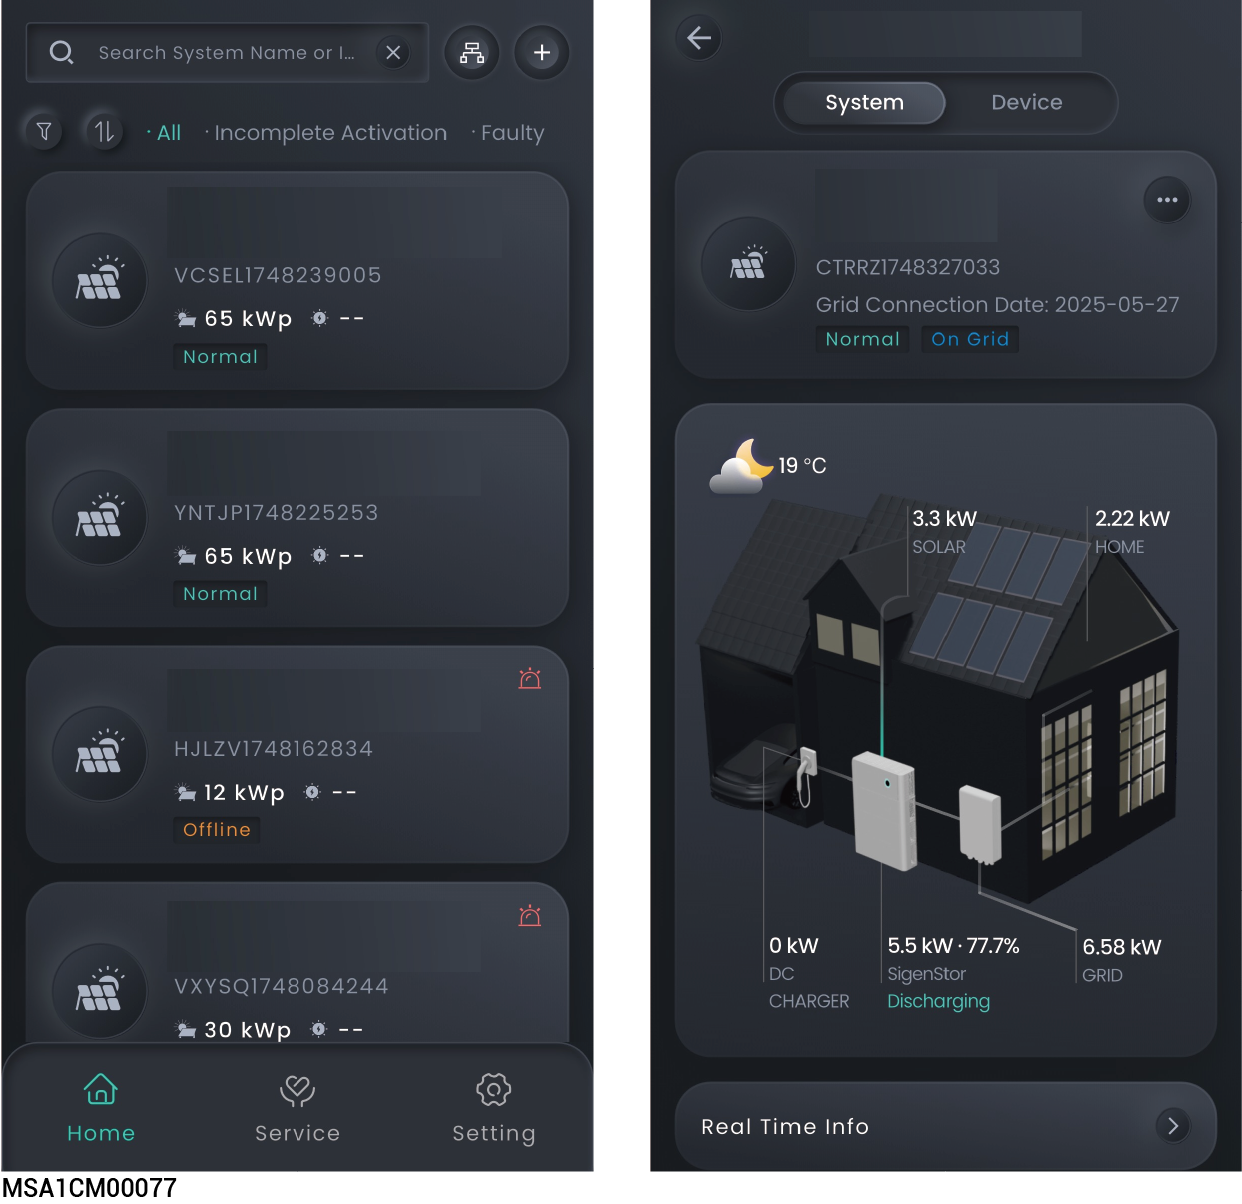
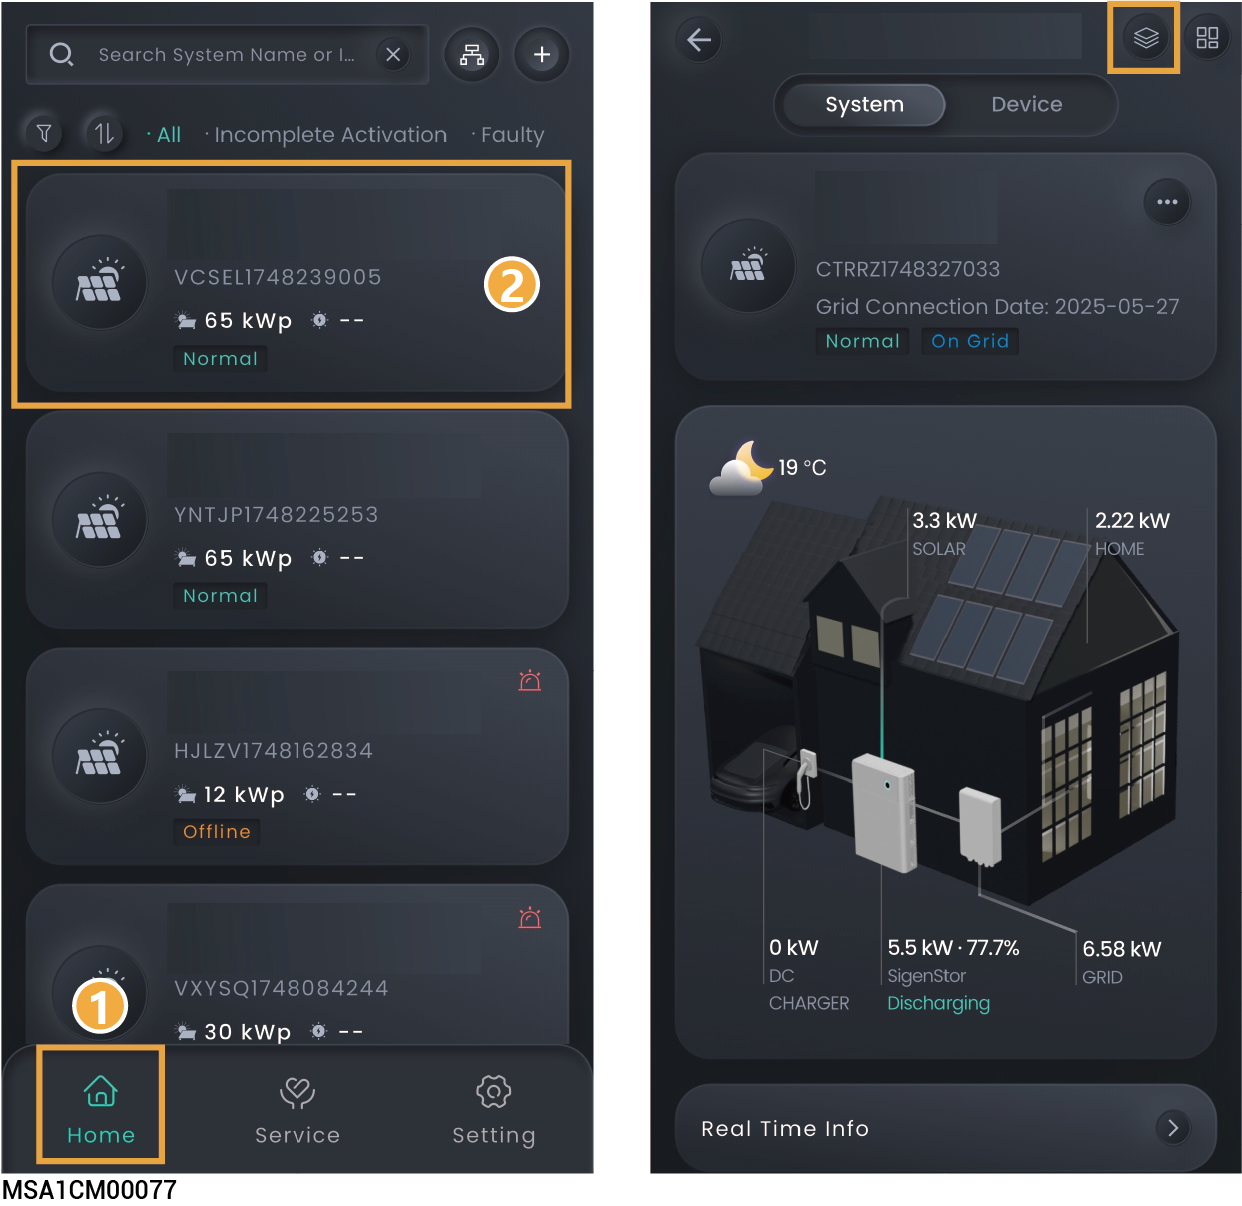
GITBOOK-3: No subject

diff --git a/device-parameter-setup/sigen-ev-dc-charging-module.md b/device-parameter-setup/sigen-ev-dc-charging-module.md
@@ -2,7 +2,7 @@
 
 <figure><img src="../.gitbook/assets/MSA1CM00078-EVDC (1).png" alt=""><figcaption></figcaption></figure>
 
-<table><thead><tr><th width="76" align="center">No.</th><th width="153.2222900390625">Parameter name</th><th>Description</th></tr></thead><tbody><tr><td align="center">1</td><td>Schedule</td><td>If the connected car supports the scheduled Charging function, you can set the scheduled charging and discharging periods.</td></tr><tr><td align="center">2</td><td>Charging Mode</td><td><p><strong>Fast Charging</strong></p><ul><li>Battery Boost: When set to <img src="../.gitbook/assets/image (38).png" alt="">, it can charge using the home battery.</li></ul><ul><li>Cut-OFF SOC: When Battery Boost is enabled, the battery will stop charging the Sigen EV DC charging module if the actual SOC is less than the set parameter.</li></ul><p><strong>PV Surplus Charging</strong></p><ul><li>Battery Boost: When set to <img src="../.gitbook/assets/image (37).png" alt="">, it can charge using the home battery.</li></ul><ul><li>Cut-OFF SOC: When Battery Boost is enabled, the battery will stop charging the Sigen EV DC charging module if the actual SOC is less than the set parameter.</li></ul><ul><li>Surplus PV priority: Select the device and drag it up or down to modify the device's priority.</li></ul></td></tr><tr><td align="center">3</td><td>Charging Setting</td><td>Setting the maximum charging power permitted for Sigen EV DC Charging Module.</td></tr><tr><td align="center">4</td><td>OCPP Settings</td><td>When it is set to <img src="../.gitbook/assets/1 (10).png" alt="" data-size="line">, the Sigen EV DC Charger can connect to the OCPP server, and users can select the OCPP platform from the URL drop-down menu.</td></tr><tr><td align="center">5</td><td>Authorization</td><td>Set the charging authentication. When it is set to <img src="../.gitbook/assets/image.png" alt="">, unauthenticated charging is allowed.</td></tr><tr><td align="center">6</td><td>Card Management</td><td>Bind a Sigen RFID card.</td></tr></tbody></table>
+<table><thead><tr><th width="76" align="center">No.</th><th width="153.2222900390625">Parameter name</th><th>Description</th></tr></thead><tbody><tr><td align="center">1</td><td>Schedule</td><td>If the connected car supports the scheduled Charging function, you can set the scheduled charging and discharging periods.</td></tr><tr><td align="center">2</td><td>Charging Mode</td><td><p><strong>Fast Charging</strong></p><ul><li>Battery Boost: When set to <img src="../.gitbook/assets/image (38).png" alt="">, it can charge using the home battery.</li></ul><ul><li>Cut-OFF SOC: When Battery Boost is enabled, the battery will stop charging the Sigen EV DC charging module if the actual SOC is less than the set parameter.</li></ul><p><strong>PV Surplus Charging</strong></p><ul><li>Battery Boost: When set to <img src="../.gitbook/assets/image (37).png" alt="">, it can charge using the home battery.</li></ul><ul><li>Cut-OFF SOC: When Battery Boost is enabled, the battery will stop charging the Sigen EV DC charging module if the actual SOC is less than the set parameter.</li></ul><ul><li>Surplus PV priority: Select the device and drag it up or down to modify the device's priority.</li></ul></td></tr><tr><td align="center">3</td><td>Charging Setting</td><td>Setting the maximum charging power permitted for Sigen EV DC Charging Module.</td></tr><tr><td align="center">4</td><td>OCPP Settings</td><td>When it is set to <img src="../.gitbook/assets/1 (10).png" alt="" data-size="line">, the Sigen EV DC Charger can connect to the OCPP server, and users can select the OCPP platform from the URL drop-down menu.</td></tr><tr><td align="center">5</td><td>Authorization</td><td>Set the charging authentication. When it is set to <img src="../.gitbook/assets/image (3).png" alt="">, unauthenticated charging is allowed.</td></tr><tr><td align="center">6</td><td>Card Management</td><td>Bind a Sigen RFID card.</td></tr></tbody></table>
 
 {% include "../.gitbook/includes/tips.md" %}
 

diff --git a/app-setting.md b/app-setting.md
@@ -16,7 +16,7 @@ Click "Setting" → "About" → "Version Update" and execute the upgrade process
 
 Click "Setting" → "App Setting" to go to the settings screen.
 
-<table><thead><tr><th width="60" align="center">No.</th><th width="155">Parameter name</th><th>Description</th></tr></thead><tbody><tr><td align="center">1</td><td>Dark Mode</td><td>Specifies the display style.</td></tr><tr><td align="center">2</td><td>Language</td><td>Specifies the display language.</td></tr><tr><td align="center">3</td><td>Temperature Unit</td><td><ul><li>Sets the unit of temperature.</li></ul><ul><li>The unit of temperature commonly used in the local area is set by default. You can change this setting when needed.</li></ul></td></tr><tr><td align="center">4</td><td>Notification</td><td><p>Sets the App push notification permission.</p><p>This permission is set while the App is installed. You can make settings when needed.</p></td></tr><tr><td align="center">5</td><td>Lab</td><td><p>Sets the access permission of Sigen AI.</p><p>You can ask Sigen AI about the product knowledge when the parameter is set to <img src=".gitbook/assets/image (3).png" alt="">.</p></td></tr><tr><td align="center">6</td><td>Diagnostic tool</td><td>If an exception occurs when you use the App, you can use this tool to generate operation logs and report to our customer support for analysis and solutions.</td></tr></tbody></table>
+<table><thead><tr><th width="60" align="center">No.</th><th width="155">Parameter name</th><th>Description</th></tr></thead><tbody><tr><td align="center">1</td><td>Dark Mode</td><td>Specifies the display style.</td></tr><tr><td align="center">2</td><td>Language</td><td>Specifies the display language.</td></tr><tr><td align="center">3</td><td>Temperature Unit</td><td><ul><li>Sets the unit of temperature.</li></ul><ul><li>The unit of temperature commonly used in the local area is set by default. You can change this setting when needed.</li></ul></td></tr><tr><td align="center">4</td><td>Notification</td><td><p>Sets the App push notification permission.</p><p>This permission is set while the App is installed. You can make settings when needed.</p></td></tr><tr><td align="center">5</td><td>Lab</td><td><p>Sets the access permission of Sigen AI.</p><p>You can ask Sigen AI about the product knowledge when the parameter is set to <img src=".gitbook/assets/image (3) (1).png" alt="">.</p></td></tr><tr><td align="center">6</td><td>Diagnostic tool</td><td>If an exception occurs when you use the App, you can use this tool to generate operation logs and report to our customer support for analysis and solutions.</td></tr></tbody></table>
 
 ## Owner consultation and request management
 

diff --git a/routine-o-and-m-of-power-station-and-device/information-querying/station-operation-information/system-information.md b/routine-o-and-m-of-power-station-and-device/information-querying/station-operation-information/system-information.md
@@ -1,8 +1,17 @@
 # System information
 
+## **电站信息查询**
+
 {% include "../../../.gitbook/includes/tips.md" %}
 
 * <mark style="color:blue;">On the "Home" screen, you can click the station name you want to query to check its detailed information, such as generating capacity and revenue.</mark>
 * <mark style="color:blue;">In parallel connection scenarios, you can click "</mark><img src="../../../.gitbook/assets/1 (11).png" alt="" data-size="line"><mark style="color:blue;">" to check the operation information of multiple devices.</mark>
 
-<figure><img src="../../../.gitbook/assets/MSA1CM00077-系统信息.png" alt="" width="563"><figcaption></figcaption></figure>
+<figure><img src="../../../.gitbook/assets/MSA1CM00077-电站运行信息.png" alt="" width="563"><figcaption></figcaption></figure>
+
+## **电站页面自定义设置**
+
+* 点击<img src="../../../.gitbook/assets/image.png" alt="" data-size="line">，您可根据需求，创建定制化的电站页面布局。
+* 点击“Restore Defaults”可恢复默认设置。
+
+<figure><img src="../../../.gitbook/assets/MSA1CM00077-电站页自定义.png" alt=""><figcaption></figcaption></figure>

diff --git a/routine-o-and-m-of-power-station-and-device/information-querying/feng-bao-yu-jing.md b/routine-o-and-m-of-power-station-and-device/information-querying/feng-bao-yu-jing.md
@@ -1,0 +1,15 @@
+# 风暴预警
+
+{% include "https://app.gitbook.com/s/OGIICehJiMvqdVX7wksn/~/reusable/p4FUqXvLmYuzqficHZJF/" %}
+
+* <mark style="color:$primary;">本功能仅对有Gateway和电池且开启离网使能的电站开放。</mark>
+* <mark style="color:$primary;">开启本功能后，系统获取极端天气信息后，提前给电池充电。</mark>
+
+
+
+<table><thead><tr><th width="81.88885498046875" align="center" valign="middle">序号</th><th width="178.3233642578125" valign="middle">参数名称</th><th width="458.888916015625" valign="top">说明</th></tr></thead><tbody><tr><td align="center" valign="middle">1</td><td valign="middle">Storm Watch</td><td valign="top">设置为<img src="broken-reference" alt="">时，风暴预警功能使能。</td></tr><tr><td align="center" valign="middle">2</td><td valign="middle">Backup Settings</td><td valign="top">Enable backup before the storm：设置极端天气前备电时长，可设置1~24小时</td></tr><tr><td align="center" valign="middle">3</td><td valign="middle">Weather Warnings</td><td valign="top">选择极端天气类型。</td></tr></tbody></table>
+
+
+
+
+

diff --git a/routine-o-and-m-of-power-station-and-device/information-querying/alarm-information.md b/routine-o-and-m-of-power-station-and-device/information-querying/alarm-information.md
@@ -4,12 +4,11 @@
 
 You can click "Service" to view alarm information of all stations.
 
-<figure><img src="../../../.gitbook/assets/MSA1CM00084-服务页.png" alt="" width="297"><figcaption></figcaption></figure>
+<figure><img src="../../.gitbook/assets/MSA1CM00084.png" alt="" width="297"><figcaption></figcaption></figure>
 
 ## Alarm of a single station/Sigen EV AC Charger
 
 1. On the "Home" screen, click the station name you want to query.
-2. Click <img src="../../../.gitbook/assets/0 (1).png" alt="" data-size="line"> next to the station name and click "Notice" to view the alarm of this station.
+2. Click <img src="../../.gitbook/assets/0 (1).png" alt="" data-size="line"> next to the station name and click "Notice" to view the alarm of this station.
 
-<figure><img src="../../../.gitbook/assets/MSA1CM00077-单电站告警.png" alt=""><figcaption></figcaption></figure>
-
+<figure><img src="../../.gitbook/assets/MSA1CM00077-单电站告警.png" alt=""><figcaption></figcaption></figure>

diff --git a/SUMMARY.md b/SUMMARY.md
@@ -15,6 +15,7 @@
     * [Alarm information](routine-o-and-m-of-power-station-and-device/information-querying/alarm-information.md)
     * [Viewing warranty information](routine-o-and-m-of-power-station-and-device/information-querying/viewing-warranty-information.md)
     * [Viewing Feedback History](routine-o-and-m-of-power-station-and-device/information-querying/viewing-feedback-history.md)
+    * [风暴预警](routine-o-and-m-of-power-station-and-device/information-querying/feng-bao-yu-jing.md)
     * [Viewing Station Diagnosis](routine-o-and-m-of-power-station-and-device/information-querying/viewing-station-diagnosis.md)
 * [System Settings](station-parameter-setup/README.md)
   * [Energy management settings](station-parameter-setup/energy-management-settings/README.md)

diff --git a/routine-o-and-m-of-power-station-and-device/information-querying/station-operation-information/README.md b/routine-o-and-m-of-power-station-and-device/information-querying/station-operation-information/README.md
@@ -1,11 +1,15 @@
 # Station operation information
 
+## **电站筛选**
+
 {% include "../../../.gitbook/includes/tips.md" %}
 
-* <mark style="color:blue;">You can click "Home" to check the status of all stations.</mark>&#x20;
+* <mark style="color:blue;">You can click "Home" to check the status of all stations.</mark>
 * <mark style="color:blue;">You can click</mark> <img src="../../../.gitbook/assets/0 (24).png" alt="" data-size="line"> <mark style="color:blue;">in the upper left corner to filter the stations you want to view.</mark>
 
 <figure><img src="../../../.gitbook/assets/MSA1CM00077-电站筛选.png" alt="" width="297"><figcaption></figcaption></figure>
+
+## **逻辑并站**
 
 {% include "../../../.gitbook/includes/tips.md" %}
 

diff --git a/routine-o-and-m-of-power-station-and-device/information-querying/viewing-warranty-information.md b/routine-o-and-m-of-power-station-and-device/information-querying/viewing-warranty-information.md
@@ -1,6 +1,3 @@
 # Viewing warranty information
 
-1. On the "Home" screen, click the station name you want to view.
-2. Click <img src="../../.gitbook/assets/0 (28).png" alt="" data-size="line"> next to the station name and click "Warranty.”
-
 <figure><img src="../../.gitbook/assets/MSA1CM00078-质保信息查看.png" alt="" width="563"><figcaption></figcaption></figure>
